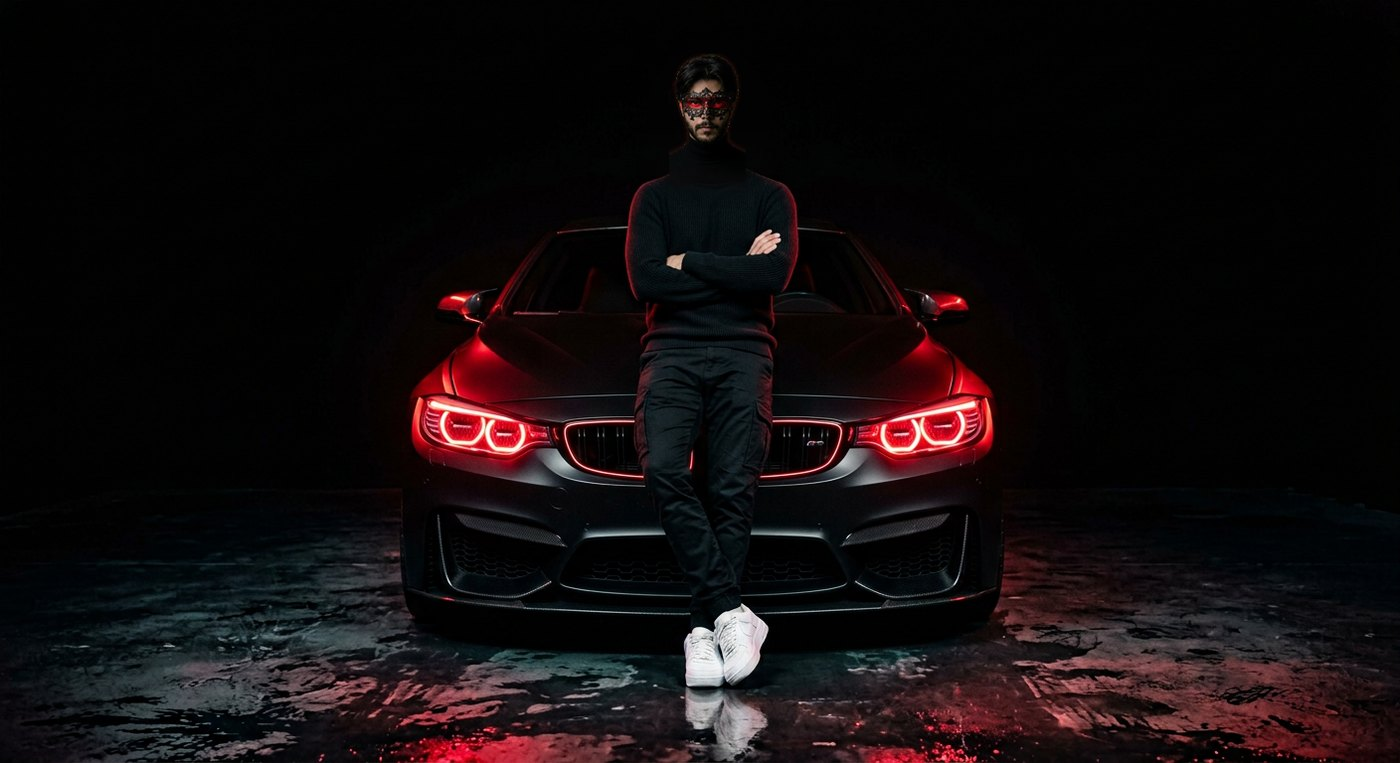
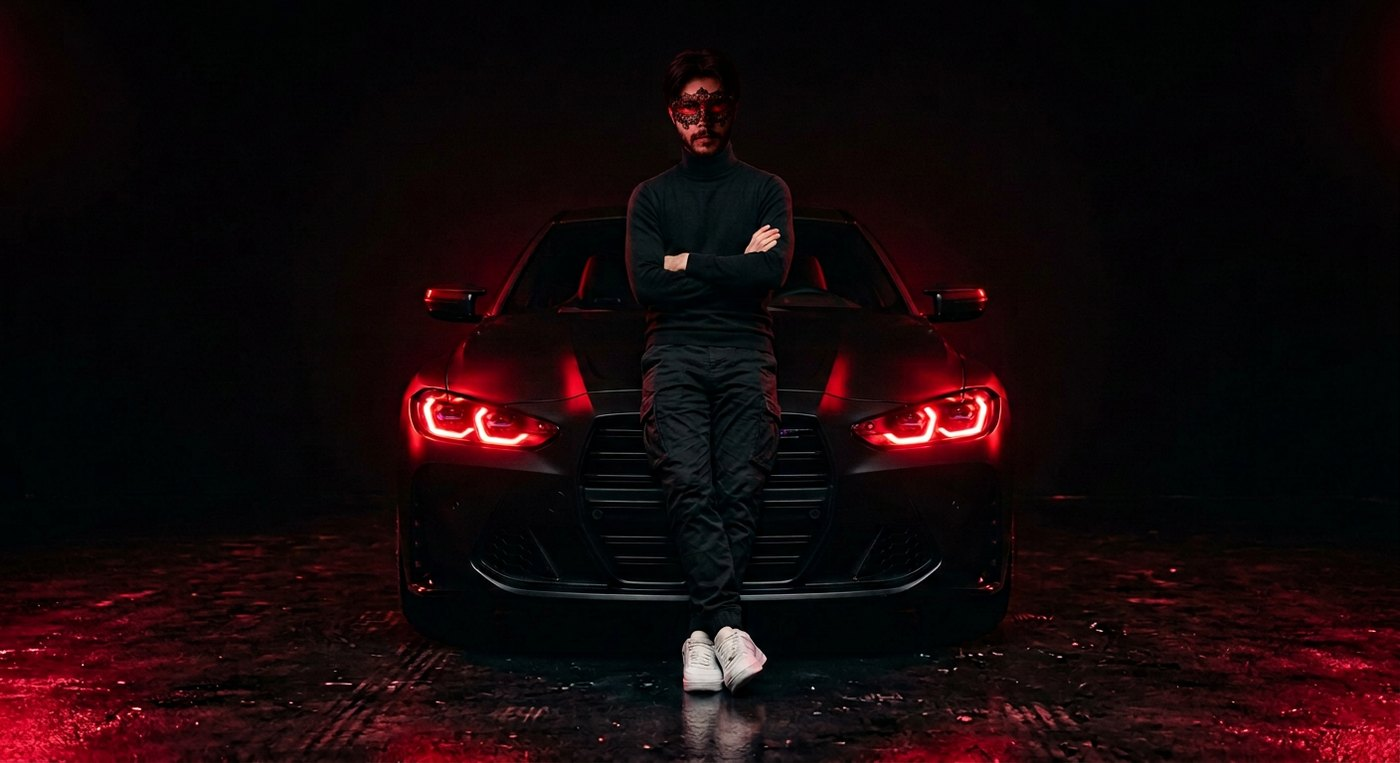
Portfolio site: intro film splash + single-page site (auto-published)

diff --git a/assets/styles.css b/assets/styles.css
@@ -580,8 +580,8 @@ body{overscroll-behavior-y:auto}
 .hero-car img{width:100%;display:block;filter:brightness(1.4) contrast(1.12) saturate(1.06)}
 .hero-eye,.hero-type,.hero-row{position:relative;z-index:1}
 .hl{position:absolute;width:17%;height:12%;transform:translate(-50%,-50%);border-radius:50%;background:radial-gradient(closest-side,rgba(255,82,92,.9),rgba(210,31,43,.55) 45%,rgba(210,31,43,.18) 68%,transparent 78%);filter:blur(1px);opacity:0;animation:hlBurn 7.5s ease-in-out infinite}
-.hl-l{left:34.1%;top:56%}
-.hl-r{left:66.8%;top:55.3%;animation-delay:.14s}
+.hl-l{left:34.1%;top:47.2%}
+.hl-r{left:65.9%;top:47.2%;animation-delay:.14s}
 .hl-gnd{position:absolute;left:50%;top:86%;transform:translateX(-50%);width:54%;height:15%;background:radial-gradient(closest-side,rgba(255,196,120,.26),transparent 70%);filter:blur(7px);opacity:0;animation:hlBurn 7.5s ease-in-out infinite}
 @keyframes hlBurn{0%{opacity:0}3%{opacity:.85}5%{opacity:.15}8%{opacity:1}12%{opacity:.92}38%{opacity:.85}58%{opacity:.26}66%{opacity:.08}70%{opacity:.72}82%{opacity:.45}100%{opacity:0}}
 .solidarity{background:var(--ink2);border-top:1px solid #202024;border-bottom:1px solid #202024;padding:clamp(48px,8vw,110px) var(--pad);display:flex;align-items:center;justify-content:center;gap:clamp(28px,6vw,90px);flex-wrap:wrap;overflow:hidden}
@@ -593,8 +593,8 @@ body{overscroll-behavior-y:auto}
 
 /* ══ v20 M4 BEAMS + DEPTH + FLAG SWAY ═════════════════════ */
 .beam{position:absolute;top:57%;width:27%;height:36%;background:linear-gradient(to bottom,rgba(255,240,205,.34),rgba(255,196,120,.10) 55%,transparent 82%);clip-path:polygon(40% 0,60% 0,100% 100%,0 100%);filter:blur(7px);opacity:0;animation:hlBurn 7.5s ease-in-out infinite}
-.beam-l{left:20.6%;transform:rotate(4deg)}
-.beam-r{left:53.3%;transform:rotate(-4deg)}
+.beam-l{left:20.6%;transform:rotate(3deg)}
+.beam-r{left:52.4%;transform:rotate(-3deg)}
 .hero-car{will-change:transform}
 .sol-flag{position:relative}
 .sol-flag::after{content:"";position:absolute;left:6%;right:4%;bottom:-7%;height:26px;background:radial-gradient(closest-side,rgba(0,0,0,.55),transparent 72%);filter:blur(5px)}
@@ -605,3 +605,9 @@ body{overscroll-behavior-y:auto}
 /* ══ v24: portrait card removed, hero copy full width ═════ */
 .hero-row{grid-template-columns:1fr}
 .hero-copy{max-width:760px}
+
+/* ══ v25: mobile hero — car band below copy, no overlap ═══ */
+@media(max-width:760px){
+  .hero{padding-bottom:min(150vw,840px)}
+  .hero-car{width:150%;opacity:.9}
+}

diff --git a/index.html b/index.html
@@ -17,7 +17,7 @@
 <meta name="twitter:description" content="AI learner • content creator • developer. Opens with a 28-second portfolio film.">
 <meta name="twitter:image" content="assets/thumbs/th-power.jpg">
 <link rel="preload" href="assets/fonts/Manrope-800.ttf" as="font" type="font/ttf" crossorigin>
-<link rel="stylesheet" href="assets/styles.css?v=24">
+<link rel="stylesheet" href="assets/styles.css?v=25">
 </head>
 <body class="locked">
 
@@ -70,7 +70,7 @@
   <!-- ── Hero ────────────────────────────────────────────────── -->
   <section class="hero">
     <div class="hero-car" aria-hidden="true">
-      <img src="assets/adil-m4.jpg?v=24" alt="" decoding="async">
+      <img src="assets/adil-m4.jpg?v=25" alt="" decoding="async">
       <span class="hl hl-l"></span><span class="hl hl-r"></span><span class="beam beam-l"></span><span class="beam beam-r"></span><span class="hl-gnd"></span>
     </div>
     <p class="mono hero-eye" data-rv="up" data-scramble>/ PORTFOLIO — EST. MARCH 2024 — <span id="clk">--:--:--</span> LOCAL — ©2026</p>
